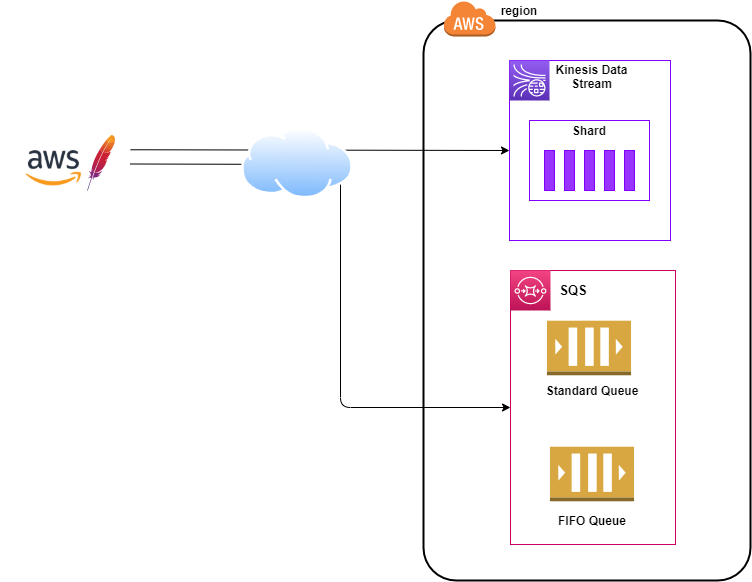
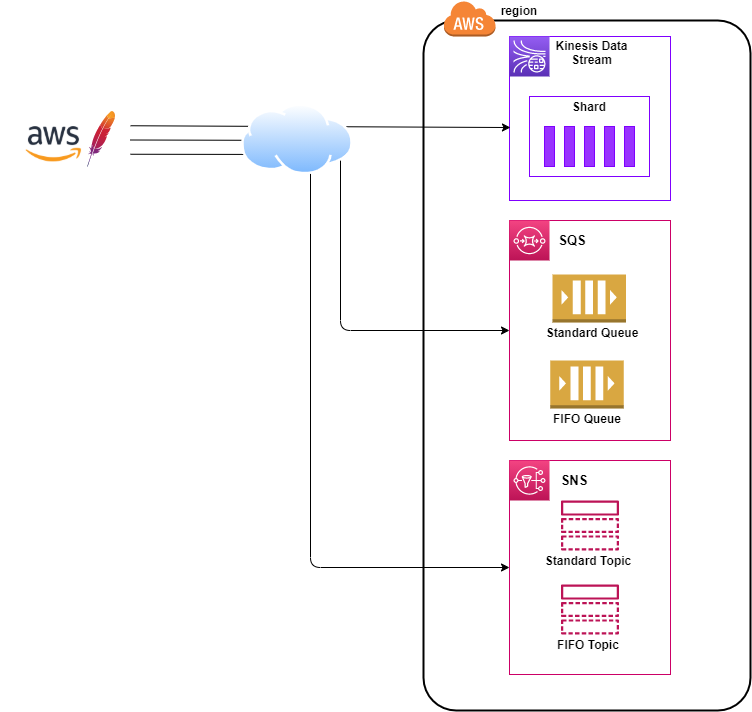
Add details to execute test over SNS Standard and FIFO topics.

diff --git a/README.md b/README.md
@@ -16,7 +16,7 @@ With `awsmeter` you can test the below aws services:
 
 * [Kinesis Data Stream](https://github.com/JoseLuisSR/awsmeter/tree/main/src/main/java/org/apache/jmeter/protocol/aws/kinesis)
 * [SQS](https://github.com/JoseLuisSR/awsmeter/tree/main/src/main/java/org/apache/jmeter/protocol/aws/sqs) 
-* SNS (Working in progress)
+* [SNS](https://github.com/JoseLuisSR/awsmeter/tree/main/src/main/java/org/apache/jmeter/protocol/aws/sns)
 
 # Install
 
@@ -47,7 +47,7 @@ Gradle builds the `awsmeter-x.y.z.jar` in `/awsmeter/build/libs` to install `aws
 2. Restart or open JMeter.
 
 
-3. Go to **Options > Plugins Manager** then in **Available Plugins** tab search `aws`, select it and press **Apply Changes and Restart JMeter** button.
+3. Go to **Options > Plugins Manager** then in **Available Plugins** tab search `aws`, select it and press **Apply Changes and Restart JMeter** button. `awsmeter` was build with Java 11, please execute JMeter with Java 11 to avoid issues.
 
 ![Screenshot](https://raw.githubusercontent.com/JoseLuisSR/awsmeter/main/doc/img/jmeter-plugins-awsmeter.png)
 
@@ -145,4 +145,13 @@ Below you can see the class diagram with the details of the classes created for 
 * **org.apache.jmeter.protocol.aws.kinesis**
 * **org.apache.jmeter.protocol.aws.sns**
 
-Please use this covention to create new Java Sampler Request for other AWS Service.
+Please use this convention to create new Java Sampler Request for other AWS Service.
+
+# Troubleshooting
+
+
+When you installed `awsmeter` using **jmeter-plugins** and executed JMeter with Java 8 or downwards, then probably you get the below exception:
+
+![Screenshot](https://raw.githubusercontent.com/JoseLuisSR/awsmeter/main/doc/img/awsmeter-compiled-issue.png)
+
+To fix it, please install Java 11 and execute JMeter with this version or install `awsmeter` following the steps described in the [Install](https://github.com/JoseLuisSR/awsmeter#install) section and execute JMeter with th version of Java you have (minimum 8). 
